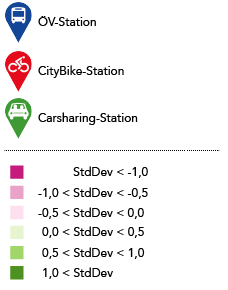
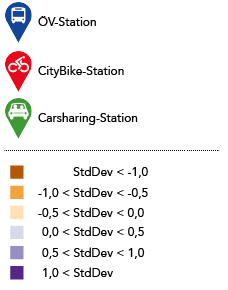
Legende geändert

Changed region(s): [[0.0307, 0.5586, 0.1228, 0.9931]]

diff --git a/censusmap.js b/censusmap.js
@@ -57,6 +57,7 @@ olMap.on('singleclick', function(evt) {
   $('#popup')
     .popover({content: function() { return $('#popup-content').html(); }})
     .popover('show');
+    
   // Close popup when user clicks on the 'x'
   $('.popover-title').click(function() {
     $('#popup').popover('hide');
@@ -85,7 +86,7 @@ olMap.on('singleclick', function(evt) {
 var form = document.getElementById('navform');
 form.onsubmit = function(evt) {
   var url = 'http://nominatim.openstreetmap.org/search?format=json&q=';
-  url += form.query.value;
+  url = form.query.value;
   var xhr = new XMLHttpRequest();
   xhr.open("GET", url, true);
   xhr.onload = function() {

diff --git a/index.html b/index.html
@@ -25,7 +25,7 @@
         z-index: 1;
         right: 10px;
         top: 60px;
-        opacity: 0.8;
+        opacity: 0.7;
       }
       .popover {
         max-width: 440px;
